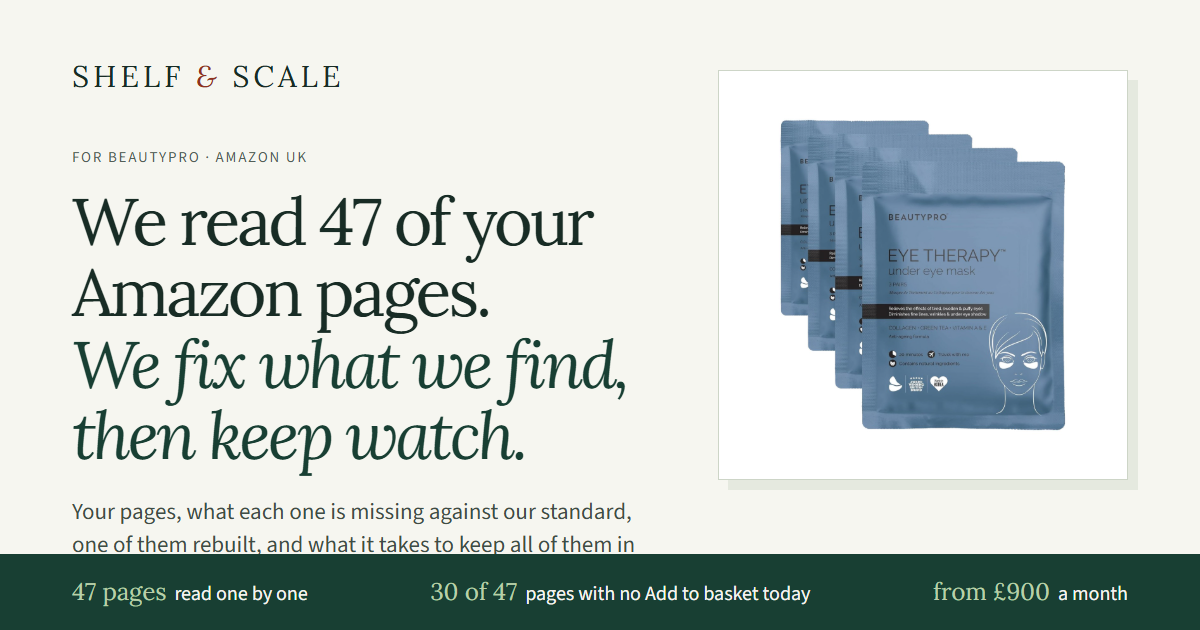
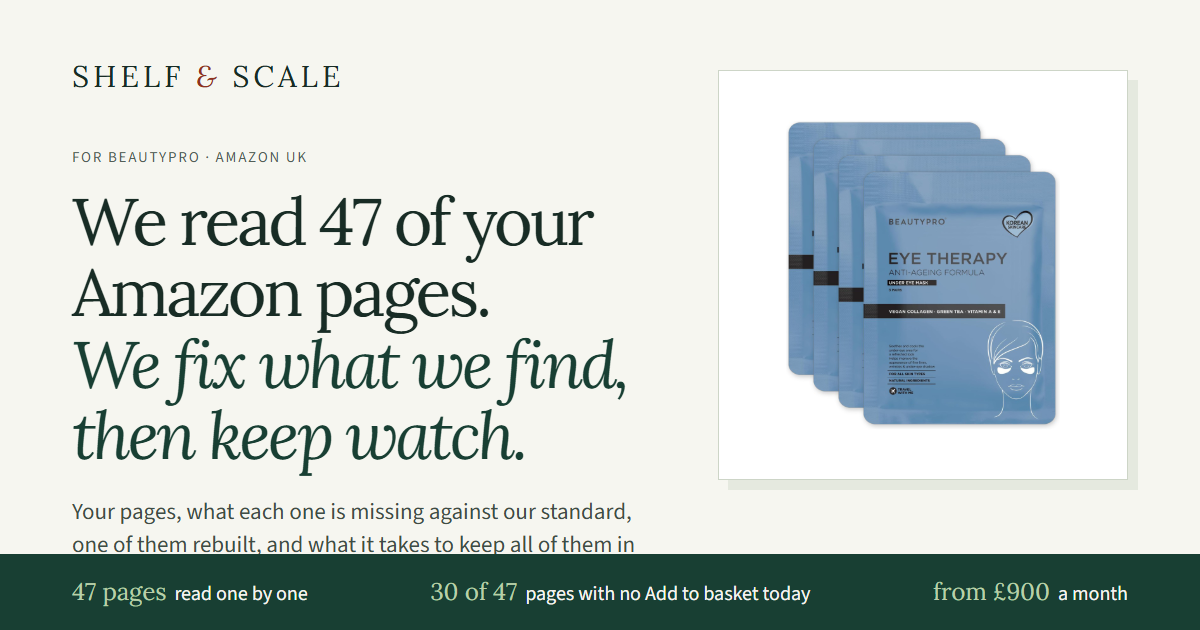
AA texture frame from customer photo; Beautypro Anti-Ageing Formula pouch

Changed region(s): [[0.6475, 0.181, 0.8942, 0.6937]]

diff --git a/r/beautypro-care/index.html b/r/beautypro-care/index.html
@@ -47,11 +47,11 @@
     <div class="hero-art">
       <div class="product-sheet">
         <div class="sheet-top"><span class="micro">EYE THERAPY · REBUILT</span><span class="sheet-number">B0HFQG823V</span></div>
-        <div class="packshot" style="height:auto;aspect-ratio:1224 / 1000;max-height:418px"><img src="img/eye-main-hero-v1.jpg" width="1000" height="1000" alt="Your Eye Therapy pouches, four of them, on white" fetchpriority="high"></div>
+        <div class="packshot" style="height:auto;aspect-ratio:1224 / 1000;max-height:418px"><img src="img/eye-main-hero-v2.jpg" width="1000" height="1000" alt="Your Eye Therapy Anti-Ageing Formula pouches, four of them, on white" fetchpriority="high"></div>
         <div class="sheet-product"><span>BEAUTYPRO</span><h2>Eye Therapy under eye patches, pack of 4</h2><p>688 ratings · 4.4 stars · £19.20</p></div>
         <div class="sheet-checks"><span><i aria-hidden="true">✓</i> Same account</span><span><i aria-hidden="true">✓</i> Your price</span><span><i aria-hidden="true">✓</i> Every page checked weekly</span></div>
       </div>
-      <div class="art-caption"><span class="micro">MAIN IMAGE</span><span>Your own pouches on white, with room around them</span></div>
+      <div class="art-caption"><span class="micro">MAIN IMAGE</span><span>Your current pouch, four of them, on white with room around</span></div>
     </div>
   </section>
   <!-- THREE NUMBERS -->
@@ -78,7 +78,7 @@
         <thead><tr><th>#</th><th>YOUR PAGE</th><th>MISSING AGAINST THE STANDARD</th><th>WHAT CARE DOES IN THE FIRST TWO MONTHS</th></tr></thead>
         <tbody>
           <tr><td class="n">1</td><td class="p"><b>Retinol under eye patches, 3 pairs</b><small>B08WJNFV6B · 4.5 (306) · 100+ bought in past month</small></td><td class="g"><ul><li>Title runs to 180 characters</li></ul></td><td class="c"><ul><li>Title cut from 180 to about 120 characters</li></ul></td></tr>
-          <tr><td class="n">2</td><td class="p"><b>Eye Therapy under eye patches, pack of 4 (12 pairs)</b><small>B0HFQG823V · 4.4 (688) · no sales label</small></td><td class="g"><ul><li>The "Reduce Puffy Eyes" bullet says "BeautyPro Retinol Under Eye Patches", on an Eye Therapy page</li><li>Title runs to 189 characters</li><li>No A+</li></ul></td><td class="c"><ul><li>That bullet written for Eye Therapy: collagen, green tea, vitamins A and E</li><li>Title cut from 189 to about 120 characters</li><li>A+ on request</li></ul></td></tr>
+          <tr><td class="n">2</td><td class="p"><b>Eye Therapy under eye patches, pack of 4 (12 pairs)</b><small>B0HFQG823V · 4.4 (688) · no sales label</small></td><td class="g"><ul><li>The "Reduce Puffy Eyes" bullet says "BeautyPro Retinol Under Eye Patches", on an Eye Therapy page</li><li>Main photo shows the earlier pouch; your single page and website show the Anti-Ageing Formula pouch</li><li>Title runs to 189 characters</li><li>No A+</li></ul></td><td class="c"><ul><li>That bullet written for Eye Therapy: collagen, green tea, vitamins A and E</li><li>Main photo made with the Anti-Ageing Formula pouch, in the monthly photo quota</li><li>Title cut from 189 to about 120 characters</li><li>A+ on request</li></ul></td></tr>
           <tr><td class="n">3</td><td class="p"><b>Eye Therapy under eye patches, 3 pairs</b><small>B01M359QX0 · 4.4 (688) · no Add to basket today</small></td><td class="g"><ul><li>The "Reduce Puffy Eyes" bullet says "BeautyPro Retinol Under Eye Patches", on an Eye Therapy page</li></ul></td><td class="c"><ul><li>That bullet written for Eye Therapy: collagen, green tea, vitamins A and E</li></ul></td></tr>
           <tr><td class="n">4</td><td class="p"><b>Foot Therapy moisturising foot mask</b><small>B01M7XNZ3Z · 4.2 (86) · no Add to basket today</small></td><td class="g"><ul><li>Title runs to 196 characters</li></ul></td><td class="c"><ul><li>Title cut from 196 to about 120 characters</li></ul></td></tr>
           <tr><td class="n">5</td><td class="p"><b>Vitamin-C face sheet mask</b><small>B00VA93WM8 · 4.3 (62) · no Add to basket today</small></td><td class="g"><ul><li>Title runs to 191 characters</li></ul></td><td class="c"><ul><li>Title cut from 191 to about 120 characters</li></ul></td></tr>
@@ -89,7 +89,7 @@
           <tr><td class="n">10</td><td class="p"><b>Cica Niacinamide face sheet mask</b><small>B0C74WWC1C · 4.8 (33) · no Add to basket today</small></td><td class="g"><ul><li>Title spells "Anti-Ageing" as "Anto-Ageing"</li></ul></td><td class="c"><ul><li>Title spelled right</li></ul></td></tr>
         </tbody>
       </table></div>
-      <p class="process-note">The page that shows Amazon's own "bought in past month" label first; then the nine pages with the most ratings behind them among those that are not "Currently unavailable" and miss the standard, one row per page. Pages with no Add to basket today say so in the line under the name. New photos come from the monthly quota (4 / 8 / 12 pages by plan); no row here needs one. Beyond these ten: 4 more pages miss the standard, and Care works through them in the monthly rebuilds. The Foot & Callus Peel, with the most ratings of all, misses nothing against the standard, so it has no row. Title length counts as a gap from 180 characters: 8 of the 28 pages that are not "Currently unavailable" run that long.</p>
+      <p class="process-note">The page that shows Amazon's own "bought in past month" label first; then the nine pages with the most ratings behind them among those that are not "Currently unavailable" and miss the standard, one row per page. Pages with no Add to basket today say so in the line under the name. New photos come from the monthly quota (4 / 8 / 12 pages by plan); of these rows only the pack of 4 needs one, its main photo. Beyond these ten: 4 more pages miss the standard, and Care works through them in the monthly rebuilds. The Foot & Callus Peel, with the most ratings of all, misses nothing against the standard, so it has no row. Title length counts as a gap from 180 characters: 8 of the 28 pages that are not "Currently unavailable" run that long.</p>
       <div class="found">
         <article>
           <span class="micro">WHAT A SHOPPER READS</span>
@@ -121,18 +121,18 @@
 
 
     <div class="phones-block">
-  <div class="page-head"><span class="page-num">01</span><h3>Eye Therapy under eye patches, pack of 4</h3><p>688 ratings · 4.4 stars</p><span class="page-asin">B0HFQG823V</span><dl class="page-delta"><div><dt>Title</dt><dd><s>BEAUTYPRO EYE THERAPY Under Eye Gel Patches Natural Green Tea Extract Pads Collagen Skincare Masks for Puffy Eyes Dark Circles & Wrinkles Vegan 3 Pairs Multi Award Winning Brand (Pack of 4)</s><br>BEAUTYPRO Eye Therapy Under Eye Gel Patches, 12 Pairs | Collagen & Green Tea Eye Patches for Puffy Eyes & Dark Circles | Vegan (Pack of 4)</dd></div><div><dt>Lead bullet</dt><dd>Names "BeautyPro Retinol Under Eye Patches" on an Eye Therapy page → written for Eye Therapy: collagen, green tea, vitamins A and E, as your next bullet says. The other four bullets stay</dd></div><div><dt>Main image</dt><dd>Your photo of four pouches, cropped at the edge of the frame → the same photo with white around it; made in the monthly photo quota</dd></div><div><dt>Gallery</dt><dd>Nine photos and a video, no A+ → the photos stay; A+ is built on request, quoted per page</dd></div><div><dt>Offer</dt><dd>Unchanged: your offer at £19.20, in stock, dispatched by Amazon. The price is yours to set</dd></div></dl></div>
+  <div class="page-head"><span class="page-num">01</span><h3>Eye Therapy under eye patches, pack of 4</h3><p>688 ratings · 4.4 stars</p><span class="page-asin">B0HFQG823V</span><dl class="page-delta"><div><dt>Title</dt><dd><s>BEAUTYPRO EYE THERAPY Under Eye Gel Patches Natural Green Tea Extract Pads Collagen Skincare Masks for Puffy Eyes Dark Circles & Wrinkles Vegan 3 Pairs Multi Award Winning Brand (Pack of 4)</s><br>BEAUTYPRO Eye Therapy Under Eye Gel Patches, 12 Pairs | Collagen & Green Tea Eye Patches for Puffy Eyes & Dark Circles | Vegan (Pack of 4)</dd></div><div><dt>Lead bullet</dt><dd>Names "BeautyPro Retinol Under Eye Patches" on an Eye Therapy page → written for Eye Therapy: collagen, green tea, vitamins A and E, as your next bullet says. The other four bullets stay</dd></div><div><dt>Main image</dt><dd>Your photo of four pouches in the earlier design, cropped at the edge of the frame → four of the Anti-Ageing Formula pouches, as on your single page and website, on white with room around; made in the monthly photo quota</dd></div><div><dt>Gallery</dt><dd>Nine photos and a video, no A+ → the photos stay; A+ is built on request, quoted per page</dd></div><div><dt>Offer</dt><dd>Unchanged: your offer at £19.20, in stock, dispatched by Amazon. The price is yours to set</dd></div></dl></div>
   <div>
   <div class="ph-toggle" role="tablist" aria-label="Show the page"><button type="button" class="on" data-show="today">Today</button><button type="button" data-show="after">Rebuilt</button></div>
   <div class="phones" data-show="today">
     <figure class="phone today"><div class="ph-device"><div class="ph-screen">
   <div class="ph-status"></div><div class="ph-search"><svg class="ph-back" viewBox="0 0 16 16" fill="none" stroke="#0f1111" stroke-width="1.8" stroke-linecap="round" stroke-linejoin="round"><path d="M10 2 4 8l6 6"/></svg><span class="ph-box"><svg width="13" height="13" viewBox="0 0 16 16" fill="none" stroke="#565959" stroke-width="1.8" stroke-linecap="round"><circle cx="6.8" cy="6.8" r="5"/><path d="m10.5 10.5 4 4"/></svg>Search or ask a question</span><svg width="16" height="14" viewBox="0 0 20 17" fill="none" stroke="#0f1111" stroke-width="1.6" stroke-linejoin="round"><path d="M2 5h3.5l1.5-2.5h6L14.5 5H18v10H2z"/><circle cx="10" cy="10" r="3"/></svg></div>
-  <div class="ph-body"><div class="ph-store"><a>Visit the BeautyPro Store</a><span class="ph-rating"><span>4.4</span><span class="stars">★★★★☆</span><span class="ph-n">(688)</span></span></div><div class="ph-title">BEAUTYPRO EYE THERAPY Under Eye Gel Patches Natural Green Tea Extract Pads Collagen Skincare Masks for Puffy Eyes Dark Circles & Wrinkles Vegan 3 Pairs Multi Award Winning Brand (Pack of 4)</div><div class="ph-img"><img src="img/ph-eye-today.jpg" alt="Eye Therapy pack of 4 on Amazon today: four pouches, the first of nine photos" loading="lazy" width="800" height="800"><div class="ph-dots"><i class="on"></i><i></i><i></i><i></i><i></i><i></i><i></i><i></i><i></i><span class="ph-icons"><svg width="16" height="15" viewBox="0 0 24 22" fill="none" stroke="#0f1111" stroke-width="1.8"><path d="M12 20s-9-5.6-9-12a5 5 0 0 1 9-3 5 5 0 0 1 9 3c0 6.4-9 12-9 12z"/></svg><svg width="15" height="15" viewBox="0 0 24 24" fill="none" stroke="#0f1111" stroke-width="1.8" stroke-linecap="round"><circle cx="18" cy="5" r="2.5"/><circle cx="6" cy="12" r="2.5"/><circle cx="18" cy="19" r="2.5"/><path d="m8.2 10.8 7.6-4.6M8.2 13.2l7.6 4.6"/></svg></span></div></div><div class="ph-price"><span class="ph-sym">£</span>19.20<small>(£4.80 / count)</small></div><div class="ph-avail">In stock</div><div class="ph-save"><span class="ph-btn yellow">Add to Basket</span><span class="ph-btn orange">Buy Now</span></div><div class="ph-nav"><span class="cur"><svg width="20" height="20" viewBox="0 0 24 24" fill="none" stroke="#0f1111" stroke-width="1.7" stroke-linejoin="round"><path d="M3 11 12 3l9 8v10h-6v-6H9v6H3z"/></svg><b>Home</b></span><span><svg width="20" height="20" viewBox="0 0 24 24" fill="none" stroke="#0f1111" stroke-width="1.7"><circle cx="12" cy="8" r="4"/><path d="M4 21a8 8 0 0 1 16 0"/></svg><b>You</b></span><span><svg width="20" height="20" viewBox="0 0 24 24" fill="none" stroke="#0f1111" stroke-width="1.7" stroke-linejoin="round"><path d="M3 4h2l2.5 11h11L21 7H6.5"/><circle cx="9" cy="19" r="1.5"/><circle cx="17" cy="19" r="1.5"/></svg><b>Basket</b></span><span><svg width="20" height="20" viewBox="0 0 24 24" fill="none" stroke="#0f1111" stroke-width="1.7" stroke-linecap="round"><path d="M4 7h16M4 12h16M4 17h16"/></svg><b>Browse</b></span></div><div class="ph-home"></div></div>
+  <div class="ph-body"><div class="ph-store"><a>Visit the BeautyPro Store</a><span class="ph-rating"><span>4.4</span><span class="stars">★★★★☆</span><span class="ph-n">(688)</span></span></div><div class="ph-title">BEAUTYPRO EYE THERAPY Under Eye Gel Patches Natural Green Tea Extract Pads Collagen Skincare Masks for Puffy Eyes Dark Circles & Wrinkles Vegan 3 Pairs Multi Award Winning Brand (Pack of 4)</div><div class="ph-img"><img src="img/ph-eye-today.jpg" alt="Eye Therapy pack of 4 on Amazon today: four pouches in the earlier design, the first of nine photos" loading="lazy" width="800" height="800"><div class="ph-dots"><i class="on"></i><i></i><i></i><i></i><i></i><i></i><i></i><i></i><i></i><span class="ph-icons"><svg width="16" height="15" viewBox="0 0 24 22" fill="none" stroke="#0f1111" stroke-width="1.8"><path d="M12 20s-9-5.6-9-12a5 5 0 0 1 9-3 5 5 0 0 1 9 3c0 6.4-9 12-9 12z"/></svg><svg width="15" height="15" viewBox="0 0 24 24" fill="none" stroke="#0f1111" stroke-width="1.8" stroke-linecap="round"><circle cx="18" cy="5" r="2.5"/><circle cx="6" cy="12" r="2.5"/><circle cx="18" cy="19" r="2.5"/><path d="m8.2 10.8 7.6-4.6M8.2 13.2l7.6 4.6"/></svg></span></div></div><div class="ph-price"><span class="ph-sym">£</span>19.20<small>(£4.80 / count)</small></div><div class="ph-avail">In stock</div><div class="ph-save"><span class="ph-btn yellow">Add to Basket</span><span class="ph-btn orange">Buy Now</span></div><div class="ph-nav"><span class="cur"><svg width="20" height="20" viewBox="0 0 24 24" fill="none" stroke="#0f1111" stroke-width="1.7" stroke-linejoin="round"><path d="M3 11 12 3l9 8v10h-6v-6H9v6H3z"/></svg><b>Home</b></span><span><svg width="20" height="20" viewBox="0 0 24 24" fill="none" stroke="#0f1111" stroke-width="1.7"><circle cx="12" cy="8" r="4"/><path d="M4 21a8 8 0 0 1 16 0"/></svg><b>You</b></span><span><svg width="20" height="20" viewBox="0 0 24 24" fill="none" stroke="#0f1111" stroke-width="1.7" stroke-linejoin="round"><path d="M3 4h2l2.5 11h11L21 7H6.5"/><circle cx="9" cy="19" r="1.5"/><circle cx="17" cy="19" r="1.5"/></svg><b>Basket</b></span><span><svg width="20" height="20" viewBox="0 0 24 24" fill="none" stroke="#0f1111" stroke-width="1.7" stroke-linecap="round"><path d="M4 7h16M4 12h16M4 17h16"/></svg><b>Browse</b></span></div><div class="ph-home"></div></div>
 </div><img class="ph-frame" src="img/frame/iphone.png" alt="" width="640" height="1283" loading="lazy"></div><figcaption>Today</figcaption></figure>
 
     <figure class="phone after"><div class="ph-device"><div class="ph-screen">
   <div class="ph-status"></div><div class="ph-search"><svg class="ph-back" viewBox="0 0 16 16" fill="none" stroke="#0f1111" stroke-width="1.8" stroke-linecap="round" stroke-linejoin="round"><path d="M10 2 4 8l6 6"/></svg><span class="ph-box"><svg width="13" height="13" viewBox="0 0 16 16" fill="none" stroke="#565959" stroke-width="1.8" stroke-linecap="round"><circle cx="6.8" cy="6.8" r="5"/><path d="m10.5 10.5 4 4"/></svg>Search or ask a question</span><svg width="16" height="14" viewBox="0 0 20 17" fill="none" stroke="#0f1111" stroke-width="1.6" stroke-linejoin="round"><path d="M2 5h3.5l1.5-2.5h6L14.5 5H18v10H2z"/><circle cx="10" cy="10" r="3"/></svg></div>
-  <div class="ph-body"><div class="ph-store"><a>Visit the BeautyPro Store</a><span class="ph-rating"><span>4.4</span><span class="stars">★★★★☆</span><span class="ph-n">(688)</span></span></div><div class="ph-title">BEAUTYPRO Eye Therapy <u>Under Eye Gel Patches</u>, <u>12 Pairs</u> | Collagen & Green Tea <u>Eye Patches</u> for Puffy Eyes & Dark Circles | Vegan (Pack of 4)</div><div class="ph-img"><img src="img/eye-main-v1.jpg" alt="Eye Therapy pack of 4 rebuilt: the new main image, concept" loading="lazy" width="800" height="800"><div class="ph-dots"><i class="on"></i><i></i><i></i><i></i><i></i><i></i><i></i><i></i><i></i><span class="ph-icons"><svg width="16" height="15" viewBox="0 0 24 22" fill="none" stroke="#0f1111" stroke-width="1.8"><path d="M12 20s-9-5.6-9-12a5 5 0 0 1 9-3 5 5 0 0 1 9 3c0 6.4-9 12-9 12z"/></svg><svg width="15" height="15" viewBox="0 0 24 24" fill="none" stroke="#0f1111" stroke-width="1.8" stroke-linecap="round"><circle cx="18" cy="5" r="2.5"/><circle cx="6" cy="12" r="2.5"/><circle cx="18" cy="19" r="2.5"/><path d="m8.2 10.8 7.6-4.6M8.2 13.2l7.6 4.6"/></svg></span></div></div><div class="ph-price"><span class="ph-sym">£</span>19.20<small>(£4.80 / count)</small></div><div class="ph-avail">In stock</div><div class="ph-save"><span class="ph-btn yellow">Add to Basket</span><span class="ph-btn orange">Buy Now</span></div><div class="ph-nav"><span class="cur"><svg width="20" height="20" viewBox="0 0 24 24" fill="none" stroke="#0f1111" stroke-width="1.7" stroke-linejoin="round"><path d="M3 11 12 3l9 8v10h-6v-6H9v6H3z"/></svg><b>Home</b></span><span><svg width="20" height="20" viewBox="0 0 24 24" fill="none" stroke="#0f1111" stroke-width="1.7"><circle cx="12" cy="8" r="4"/><path d="M4 21a8 8 0 0 1 16 0"/></svg><b>You</b></span><span><svg width="20" height="20" viewBox="0 0 24 24" fill="none" stroke="#0f1111" stroke-width="1.7" stroke-linejoin="round"><path d="M3 4h2l2.5 11h11L21 7H6.5"/><circle cx="9" cy="19" r="1.5"/><circle cx="17" cy="19" r="1.5"/></svg><b>Basket</b></span><span><svg width="20" height="20" viewBox="0 0 24 24" fill="none" stroke="#0f1111" stroke-width="1.7" stroke-linecap="round"><path d="M4 7h16M4 12h16M4 17h16"/></svg><b>Browse</b></span></div><div class="ph-home"></div></div>
+  <div class="ph-body"><div class="ph-store"><a>Visit the BeautyPro Store</a><span class="ph-rating"><span>4.4</span><span class="stars">★★★★☆</span><span class="ph-n">(688)</span></span></div><div class="ph-title">BEAUTYPRO Eye Therapy <u>Under Eye Gel Patches</u>, <u>12 Pairs</u> | Collagen & Green Tea <u>Eye Patches</u> for Puffy Eyes & Dark Circles | Vegan (Pack of 4)</div><div class="ph-img"><img src="img/eye-main-v2.jpg" alt="Eye Therapy pack of 4 rebuilt: four Anti-Ageing Formula pouches, the new main image, concept" loading="lazy" width="800" height="800"><div class="ph-dots"><i class="on"></i><i></i><i></i><i></i><i></i><i></i><i></i><i></i><i></i><span class="ph-icons"><svg width="16" height="15" viewBox="0 0 24 22" fill="none" stroke="#0f1111" stroke-width="1.8"><path d="M12 20s-9-5.6-9-12a5 5 0 0 1 9-3 5 5 0 0 1 9 3c0 6.4-9 12-9 12z"/></svg><svg width="15" height="15" viewBox="0 0 24 24" fill="none" stroke="#0f1111" stroke-width="1.8" stroke-linecap="round"><circle cx="18" cy="5" r="2.5"/><circle cx="6" cy="12" r="2.5"/><circle cx="18" cy="19" r="2.5"/><path d="m8.2 10.8 7.6-4.6M8.2 13.2l7.6 4.6"/></svg></span></div></div><div class="ph-price"><span class="ph-sym">£</span>19.20<small>(£4.80 / count)</small></div><div class="ph-avail">In stock</div><div class="ph-save"><span class="ph-btn yellow">Add to Basket</span><span class="ph-btn orange">Buy Now</span></div><div class="ph-nav"><span class="cur"><svg width="20" height="20" viewBox="0 0 24 24" fill="none" stroke="#0f1111" stroke-width="1.7" stroke-linejoin="round"><path d="M3 11 12 3l9 8v10h-6v-6H9v6H3z"/></svg><b>Home</b></span><span><svg width="20" height="20" viewBox="0 0 24 24" fill="none" stroke="#0f1111" stroke-width="1.7"><circle cx="12" cy="8" r="4"/><path d="M4 21a8 8 0 0 1 16 0"/></svg><b>You</b></span><span><svg width="20" height="20" viewBox="0 0 24 24" fill="none" stroke="#0f1111" stroke-width="1.7" stroke-linejoin="round"><path d="M3 4h2l2.5 11h11L21 7H6.5"/><circle cx="9" cy="19" r="1.5"/><circle cx="17" cy="19" r="1.5"/></svg><b>Basket</b></span><span><svg width="20" height="20" viewBox="0 0 24 24" fill="none" stroke="#0f1111" stroke-width="1.7" stroke-linecap="round"><path d="M4 7h16M4 12h16M4 17h16"/></svg><b>Browse</b></span></div><div class="ph-home"></div></div>
 </div><img class="ph-frame" src="img/frame/iphone.png" alt="" width="640" height="1283" loading="lazy"></div><figcaption>Rebuilt · our concept · your price today</figcaption></figure>
 
   </div>
@@ -156,9 +156,9 @@
       <div class="panel">
         <span class="micro">SEVEN FRAMES, ONE QUESTION EACH · THREE SHOWN FOR THIS PAGE</span>
         <div class="frames">
-          <div><i>1</i><img src="img/eye-main-v1.jpg" alt="Frame 1: the four Eye Therapy pouches on white" loading="lazy" width="400" height="400"><span><b>What is it</b>Main image, on white</span></div>
+          <div><i>1</i><img src="img/eye-main-v2.jpg" alt="Frame 1: four Eye Therapy Anti-Ageing Formula pouches on white" loading="lazy" width="400" height="400"><span><b>What is it</b>Main image, on white</span></div>
           <div><i>2</i><img src="img/eye-inside-v1.jpg" alt="Frame 2: a pair of gel under-eye patches on a white tile" loading="lazy" width="400" height="400"><span><b>What is it like</b>The patches, on a tile</span></div>
-          <div><i>3</i><img src="img/eye-use-v1.jpg" alt="Frame 3 concept: an Eye Therapy pouch on a bathroom shelf beside a folded towel and a glass of water" loading="lazy" width="400" height="400"><span><b>Where do I keep it</b>On the shelf, beside a towel</span></div>
+          <div><i>3</i><img src="img/eye-use-v2.jpg" alt="Frame 3 concept: an Eye Therapy Anti-Ageing Formula pouch on a bathroom shelf beside a folded towel and a glass of water" loading="lazy" width="400" height="400"><span><b>Where do I keep it</b>On the shelf, beside a towel</span></div>
         </div>
         <ol class="frames-rest">
           <li><i>4</i><b>What is in it</b> collagen, green tea and vitamins A and E: your pouch and your second bullet</li>
@@ -166,7 +166,7 @@
           <li><i>6</i><b>How many do I get</b> four pouches of three pairs, 12 pairs: your pack and its badge</li>
           <li><i>7</i><b>How does it feel</b> cooling, and stays in place without slipping: your bullets</li>
         </ol>
-        <p class="note">Frames 1 to 3 are built from your own photograph for this page: what Care makes for a page in the monthly photo quota (4 pages a month on Care S); frames 4 to 7 show what a full gallery would answer. The patches in frame 2 are a concept: the real patches' colour and finish are yours, and the pouch in frame 3 is one of the four. A+ is separate and quoted per page.</p>
+        <p class="note">Frames 1 and 3 are built from your own pack shot of the Anti-Ageing Formula pouch, as on your single page and website: what Care makes for a page in the monthly photo quota (4 pages a month on Care S); frames 4 to 7 show what a full gallery would answer. The patches in frame 2 are a concept: the real patches' colour and finish are yours, and the pouch in frame 3 is one of the four. A+ is separate and quoted per page.</p>
       </div>
     </div>
   </section>
@@ -186,7 +186,7 @@
           <article class=""><div class="shelf-img"><img src="img/shelf/t2.jpg" alt="" loading="lazy" width="320" height="320"></div><h4>60 PCS Hyaluronic Acid Collagen Under Eye Gel Patches</h4><div class="shelf-rating"><span>4.7</span> <span class="stars">★★★★☆</span> <span class="n">(26)</span></div><div class="shelf-bought">500+ bought in past month</div><div class="shelf-price">£8.99</div></article>
           <article class=""><div class="shelf-img"><img src="img/shelf/t3.jpg" alt="" loading="lazy" width="320" height="320"></div><h4>Under Eye Gel Patches - (6 Pairs-3 Colors), Under Eye Masks, Reduce Dark Circles, Puffy Eyes, Undereye Bags, Wrinkles & Fine Lines,Cooling Under Eye Masks,Hydrating Eye Treatment Patches, EasyTo Use</h4><div class="shelf-rating"><span class="n">No reviews yet</span></div><div class="shelf-price">£2.49</div></article>
           <article class=""><div class="shelf-img"><img src="img/shelf/t4.jpg" alt="" loading="lazy" width="320" height="320"></div><h4>Under Eye Gel Patches 60pcs– Sakura Collagen Hydrating Eye Mask for Dark Circles, Puffiness & Wrinkles, Soothing Under Eye Pads for Women & Men</h4><div class="shelf-rating"><span>4.4</span> <span class="stars">★★★★☆</span> <span class="n">(92)</span></div><div class="shelf-bought">300+ bought in past month</div><div class="shelf-price">£6.48</div></article>
-          <article class="you"><span class="you-tag">Your page · our concept</span><div class="shelf-img"><img src="img/shelf/t5-v1.jpg" alt="" loading="lazy" width="320" height="320"></div><h4>BEAUTYPRO Eye Therapy Under Eye Gel Patches, 12 Pairs | Collagen & Green Tea Eye Patches for Puffy Eyes & Dark Circles | Vegan (Pack of 4)</h4><div class="shelf-rating"><span>4.4</span> <span class="stars">★★★★☆</span> <span class="n">(688)</span></div><div class="shelf-price">£19.20</div></article>
+          <article class="you"><span class="you-tag">Your page · our concept</span><div class="shelf-img"><img src="img/shelf/t5-v2.jpg" alt="" loading="lazy" width="320" height="320"></div><h4>BEAUTYPRO Eye Therapy Under Eye Gel Patches, 12 Pairs | Collagen & Green Tea Eye Patches for Puffy Eyes & Dark Circles | Vegan (Pack of 4)</h4><div class="shelf-rating"><span>4.4</span> <span class="stars">★★★★☆</span> <span class="n">(688)</span></div><div class="shelf-price">£19.20</div></article>
         </div>
         <figcaption>Amazon.co.uk, search "under eye gel patches", 12 October 2026, London address, 12 sponsored tiles removed; organic results 1 to 4 in order, titles cut for space, ratings, labels and prices as listed that day. No BeautyPro page is among the first 48 organic results of this search today. The green tile is our concept for your Eye Therapy pack of 4, set beside the first four so the two can be compared: new main image, new title, your current price. Rank follows sales, and a rebuilt page does not buy a position.</figcaption>
       </figure>
@@ -234,7 +234,7 @@
         <li><strong>The shelf.</strong> Amazon.co.uk search "under eye gel patches", first page, London EC2A address, 12 October 2026: 665 results, 12 sponsored tiles removed. Organic results 1 to 4 are shown. No BeautyPro page is among the first 48 organic results.</li>
         <li><strong>Your website.</strong> beautypro.com, 12 October 2026: its terms say the website is operated by BeautyPro Ltd; its Eye Therapy under eye mask page lists the single pouch and the pack of 4 (12 pairs), so the pack in the example is in the current range. Its contact page gives the registered company number 07358394.</li>
         <li><strong>Company.</strong> BEAUTYPRO LTD, company number 07358394, incorporated 26 August 2010 (formerly LIVING BEAUTY DIRECT LTD), registered office 2a Enlightened Business Park, Palehouse Common, Framfield, Uckfield, East Sussex TN22 5QZ; directors David George Herdman (since August 2010) and Ibrahim Ansari (since January 2011); persons with significant control are Proud Limited, Ibrahim Ansari and David George Herdman. Read at Companies House on 12 October 2026.</li>
-        <li><strong>What is real and what is a concept.</strong> Real: every number, date, rating count, search rank, price, and the left phone. Concept: the new title, the three gallery frames, the hero image and the right phone's title, built from BeautyPro's own photograph of the pouches. Whether Amazon lets your account change each element of a page is confirmed in the first week of Care, before anything is filed.</li>
+        <li><strong>What is real and what is a concept.</strong> Real: every number, date, rating count, search rank, price, and the left phone. Concept: the new title, the three gallery frames, the hero image and the right phone's title, built from BeautyPro's own pack shot of the Anti-Ageing Formula pouch. Whether Amazon lets your account change each element of a page is confirmed in the first week of Care, before anything is filed.</li>
       </ul></details>
     </div>
   </section>

diff --git a/r/aromatherapy-associates-care/index.html b/r/aromatherapy-associates-care/index.html
@@ -156,7 +156,7 @@
         <span class="micro">SEVEN FRAMES, ONE QUESTION EACH · THREE SHOWN FOR THIS PAGE</span>
         <div class="frames">
           <div><i>1</i><img src="img/jar-main-v1.jpg" alt="Frame 1: the jar and box on white" loading="lazy" width="400" height="400"><span><b>What is it</b>Main image, on white</span></div>
-          <div><i>2</i><img src="img/jar-inside-v1.jpg" alt="Frame 2: a dollop and a swatch of gel cream on a white tile" loading="lazy" width="400" height="400"><span><b>What is it like</b>The texture, on a tile</span></div>
+          <div><i>2</i><img src="img/jar-inside-v2.jpg" alt="Frame 2: a dollop and a swatch of the pale, milky gel cream on a white tile" loading="lazy" width="400" height="400"><span><b>What is it like</b>The texture, on a tile</span></div>
           <div><i>3</i><img src="img/jar-use-v1.jpg" alt="Frame 3 concept: the jar on a bathroom vanity beside a folded towel and a glass of water" loading="lazy" width="400" height="400"><span><b>Where do I use it</b>On the vanity, beside a towel</span></div>
         </div>
         <ol class="frames-rest">
@@ -165,7 +165,7 @@
           <li><i>6</i><b>What does it do for skin</b> hydrates and plumps, brightens, evens skin tone: your bullets</li>
           <li><i>7</i><b>How do I fit it into a day</b> morning and evening skincare routines: your bullet 5</li>
         </ol>
-        <p class="note">Frames 1 to 3 are built from your own photograph for this page: what Care makes for a page in the monthly photo quota (4 pages a month on Care S); frames 4 to 7 show what a full gallery would answer. The texture in frame 2 is a concept: the real cream's colour and finish are yours. A+ is separate and quoted per page.</p>
+        <p class="note">Frames 1 to 3 are built from your own photograph for this page: what Care makes for a page in the monthly photo quota (4 pages a month on Care S); frames 4 to 7 show what a full gallery would answer. The texture in frame 2 is a concept, its colour and finish taken from a customer's photo of the cream on your page. A+ is separate and quoted per page.</p>
       </div>
     </div>
   </section>

diff --git a/r/beautypro-care/og.html b/r/beautypro-care/og.html
@@ -12,5 +12,5 @@ p{font-size:23px;line-height:1.45;color:#3f4d45;margin:24px 0 0}
 .bar b{font-family:'Lora',serif;font-weight:400;font-size:24px;margin-right:8px;color:#b8cfa9}
 </style></head><body><div class="l"><div class="wm">Shelf <i>&amp;</i> Scale</div><div class="eyebrow">FOR BEAUTYPRO · AMAZON UK</div>
 <h1>We read 47 of your Amazon pages. <em>We fix what we find, then keep watch.</em></h1><p>Your pages, what each one is missing against our standard, one of them rebuilt, and what it takes to keep all of them in order every week.</p></div>
-<div class="card"><img src="img/eye-main-v1.jpg"></div>
+<div class="card"><img src="img/eye-main-v2.jpg"></div>
 <div class="bar"><span><b>47 pages</b>read one by one</span><span><b>30 of 47</b>pages with no Add to basket today</span><span><b>from £900</b>a month</span></div></body></html>
